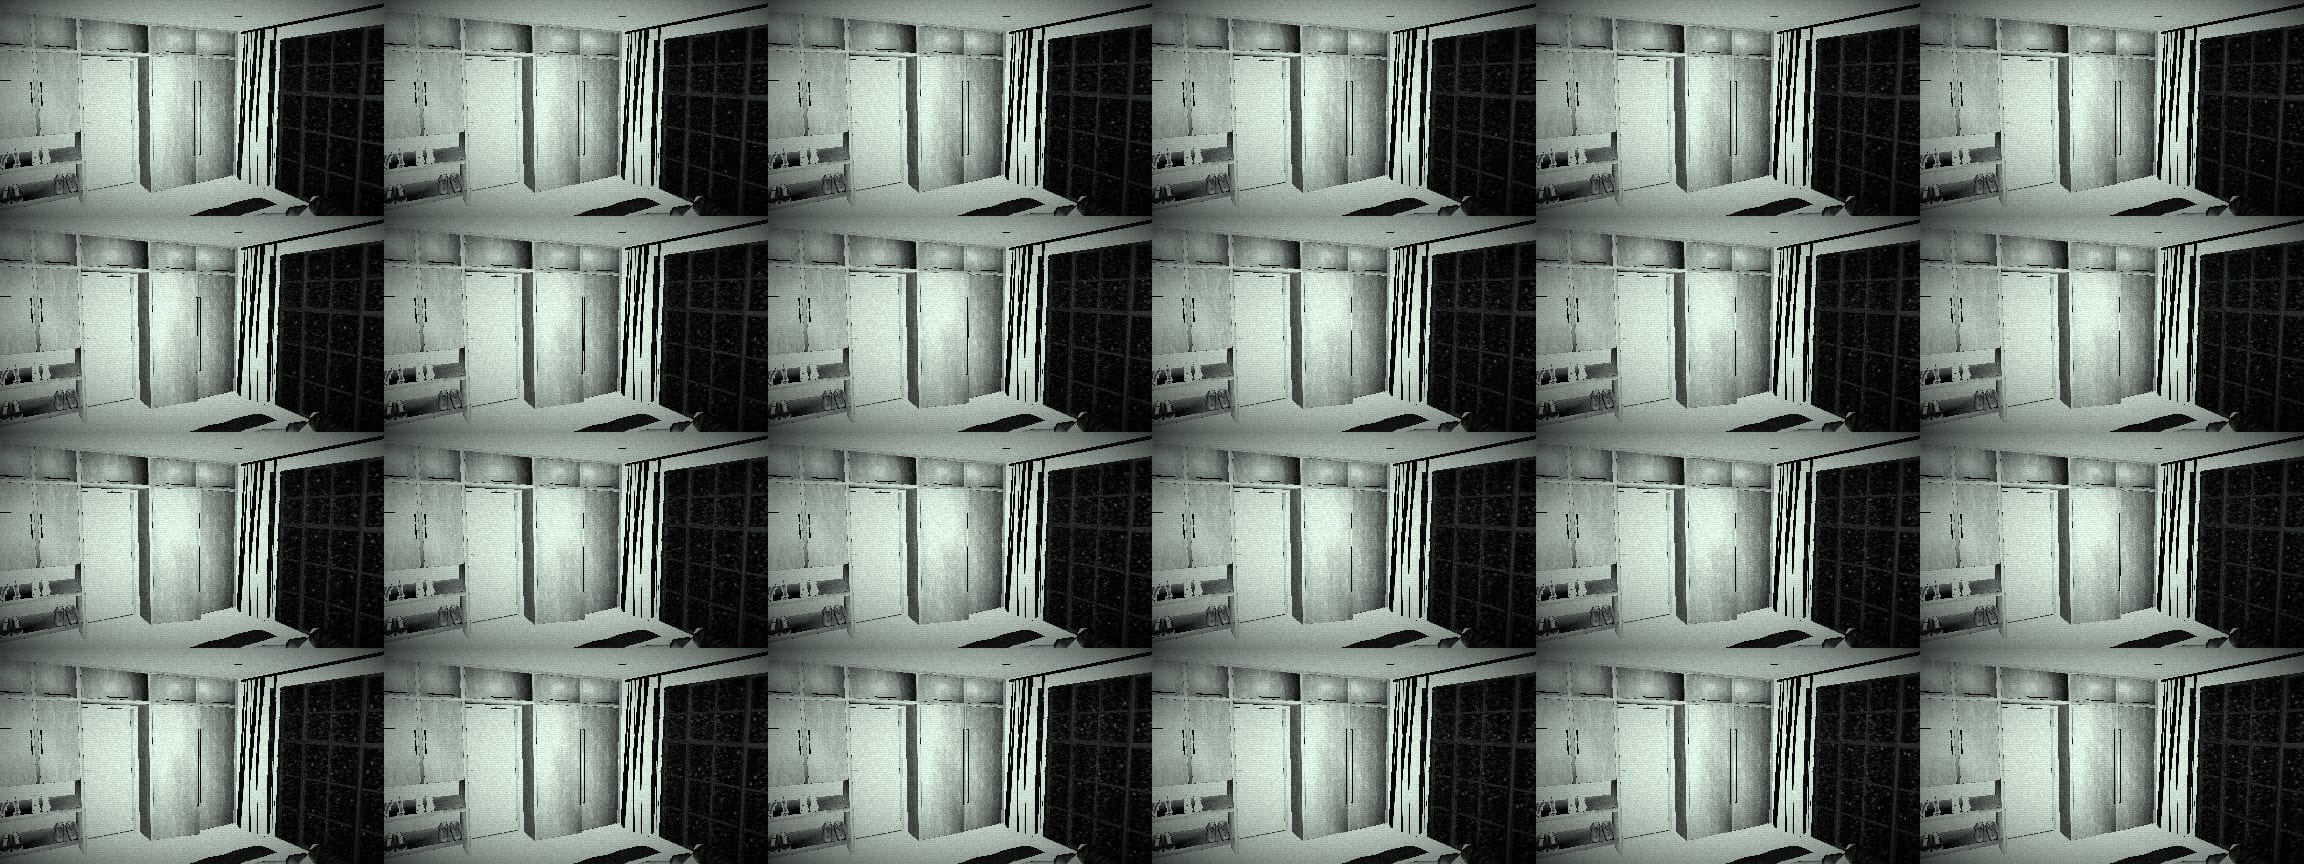
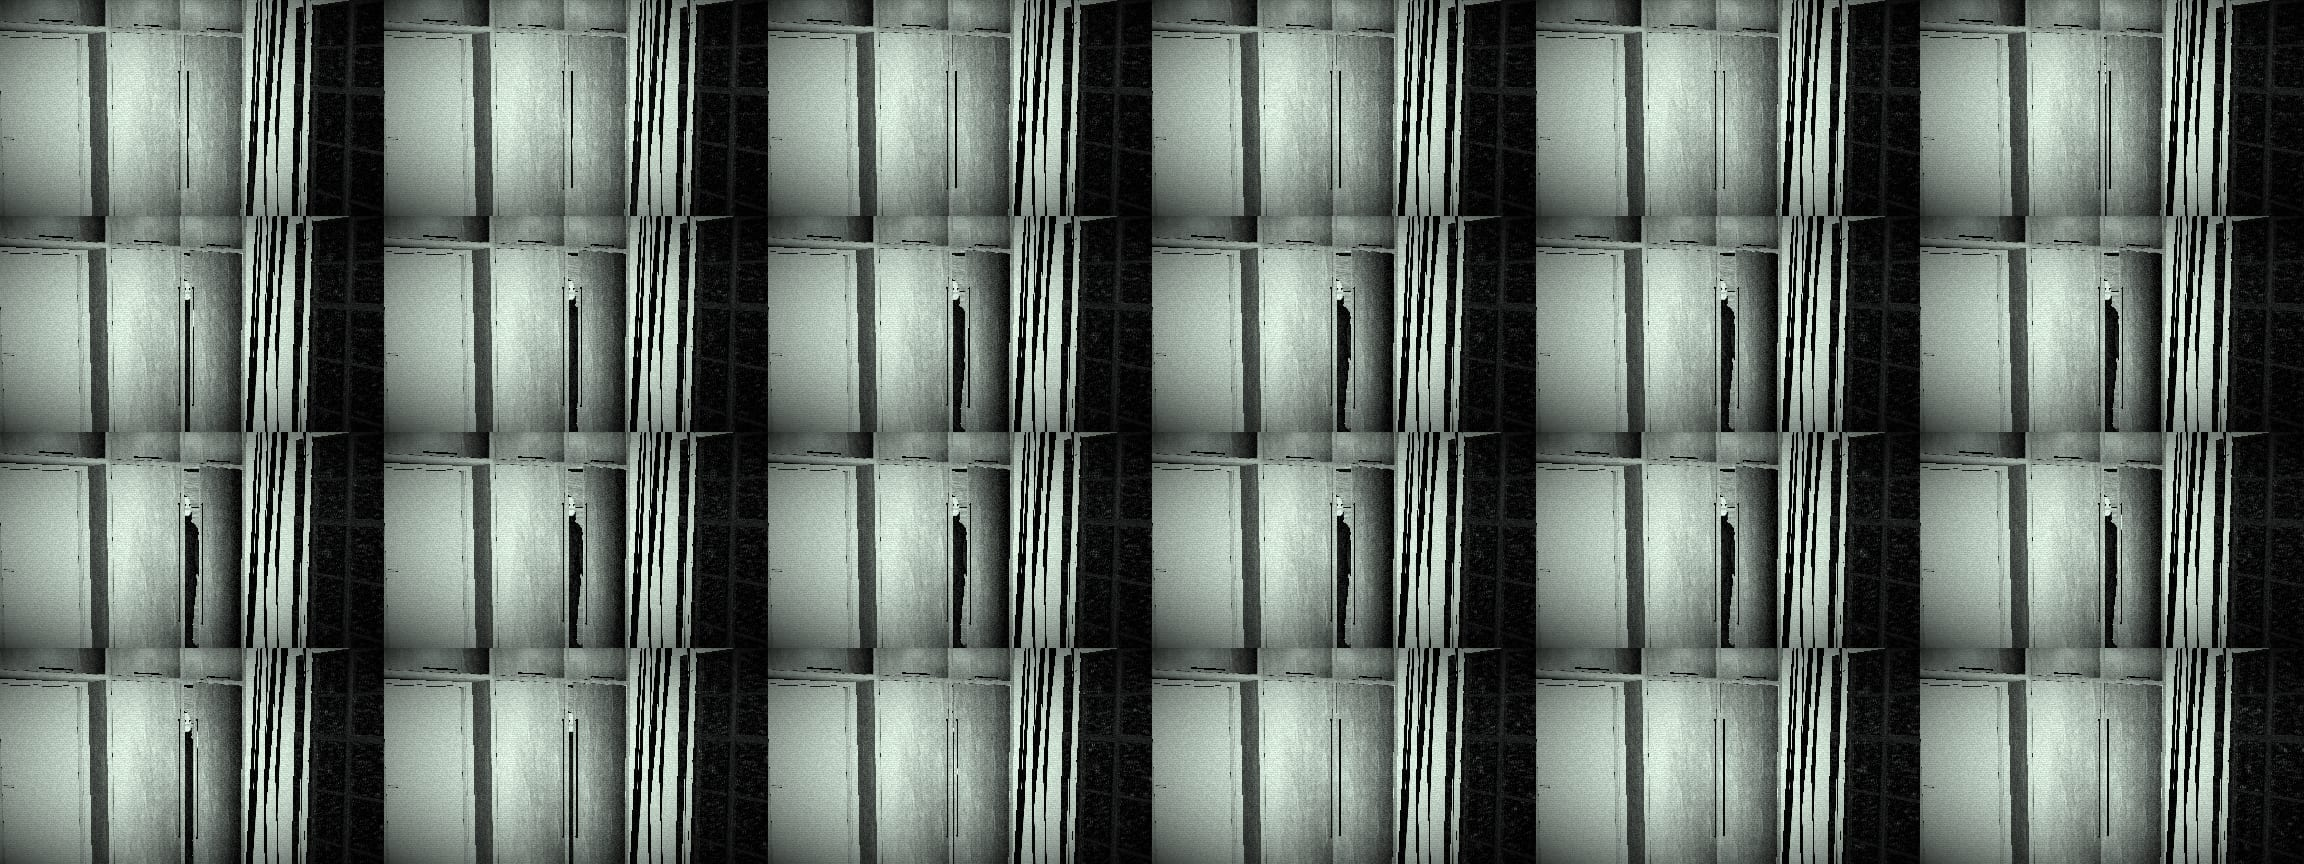
Build 0.13: open the hatch through the nest (was asked of the world), story wiring regression, 00:47 clip with his face in the left door's gap, captures
Claude-Session: https://claude.ai/code/session_01NNwg2D8qsn3iA93SqLCGMQ

diff --git a/src/story.js b/src/story.js
@@ -252,7 +252,7 @@ export class Story {
     this.sys.world?.prints(true);
     this.set('prints');
     this.sys.world?.bathroomOccupied(false);
-    this.sys.world?.hatch(true);
+    this.sys.nest?.hatch(true);                       // the hatch above the nest stands open now
   }
 
   // power.js reports the flat live again (the RCD up with the faulty circuit off).

diff --git a/docs/BUILD_013.md b/docs/BUILD_013.md
@@ -52,6 +52,24 @@ One system per file, each opening with a comment on what it does.
 | `death.js`, `endings.js` | The grab and waking at 03:07 again; the four endings and their cards. |
 | `menu.js`, `hud.js`, `journal.js`, `credits.js`, `music.js`, `sound.js` | The menus (title, new night with difficulty, chapters, journal and endings, settings, brightness, credits, pause), prompts and captions, the evidence journal, the score and stings, and the recorded-sound bank. |
 
+### The home camera sees in the dark
+
+A real night camera has a ring of infrared LEDs round its lens; so does this one. `seccam.js` adds a spot light at the
+lens with only the *lightmapped* bit in its mask, and the clustered-light patch in `probes.js` accepts such a light only
+while the camera named `security camera` renders (`irView`):
+- the player and the probes never see it;
+- the infrared view (LIVE, and the baked clips) shows the bedroom even with every light off, and his white mask glows.
+
+It needs no shadow: from the lens it reaches exactly what the lens sees.
+
+`tools/bake-clips.mjs` records three things from the game itself with that camera:
+- **00:47:** zoomed on the wardrobe, the left door opens a hand's width with his face in the gap.
+- **02:58:** zoomed on the foot of the empty bed, he turns to the lens and looks up into it.
+- **03:14:** the still for Sweet Dreams, you curled up asleep and him standing at the foot of the bed.
+
+It also takes the polaroid: a flash photograph from inside the wardrobe, made to look like instant film and printed
+into the polaroid model.
+
 ### The glass is heard everywhere (owner report)
 
 The glass now plays the recorded `glass_break` through the sound bank:

diff --git a/docs/STORY.md b/docs/STORY.md
@@ -31,7 +31,7 @@ Your doctor told you to film your nights; **the camera arrived today and tonight
 
 | Time | Truth | What the player can find |
 | --- | --- | --- |
-| 00:47 | The camera's motion alert buzzes your phone on the nightstand. He takes the phone and shuts it in the fridge to silence it. | Clip 00:47: the wardrobe's left door opens a hand's width, a white face low in the gap, it closes. The phone in the fridge, dead with cold. |
+| 00:47 | The camera's motion alert buzzes your phone on the nightstand. He takes the phone and shuts it in the fridge to silence it. | Clip 00:47: the wardrobe's left door opens a hand's width, a white face in the gap, it closes. The phone in the fridge, dead with cold. |
 | 02:58 | You are sleepwalking (you are in the kitchen). He stands at the foot of your empty bed, then notices the camera and turns to it. | Clip 02:58: duvet thrown back, a figure at the foot of the empty bed, face whited out by the infrared, it turns to the lens. "...Is that me?" |
 | 03:07 | You wake in bed (you went back to sleep at 03:01). He is behind the right wardrobe door, holding it shut. | The start. The right wardrobe door is "Stuck." |
 | ~03:09 | You are in the kitchen. He comes out to fetch his glass of water (yours) from the nightstand, knocks it over in the dark, cuts his bare foot. He goes into the bathroom to wash the cut and locks it. | The shattered glass and blood-pink water. "I didn't bring a glass to bed." Tap running behind the locked door. |

diff --git a/docs/HANDOFF.md b/docs/HANDOFF.md
@@ -358,6 +358,9 @@ Full list, measurements and before/after renders: [BUILD_012.md](BUILD_012.md). 
 - WGSL: one declaration per line (attributes, varyings, uniforms, textures, samplers). The engine's WGSL preprocessor
   finds them line by line; several on one line compile but bind nothing (the 0.12 probes cross-fade wrote zeros on
   WebGPU: the "stray light" of 0.13).
+- A light seen by one camera only: give it the lightmapped mask bit alone (`MASK_AFFECT_LIGHTMAPPED`); the
+  clustered-light patch in probes.js accepts it only while the camera named `security camera` renders (`irView`).
+  The flashlight (dynamic + lightmapped) is the opposite case: every camera but the probes.
 - Placing a prop: measure the surface (`node tools/surfaces.mjs x0 x1 z0 z1 [y0 y1] [x|y|z]`). The corridor's south
   wall face is at z 4.337, not 4.42 (a prop put on 4.42 sat half inside the wall), the bed wall's panel at x 14.11.
 - Headless staging shots: `place()` puts the player through the collision grid, so a spot on the bed or in furniture
